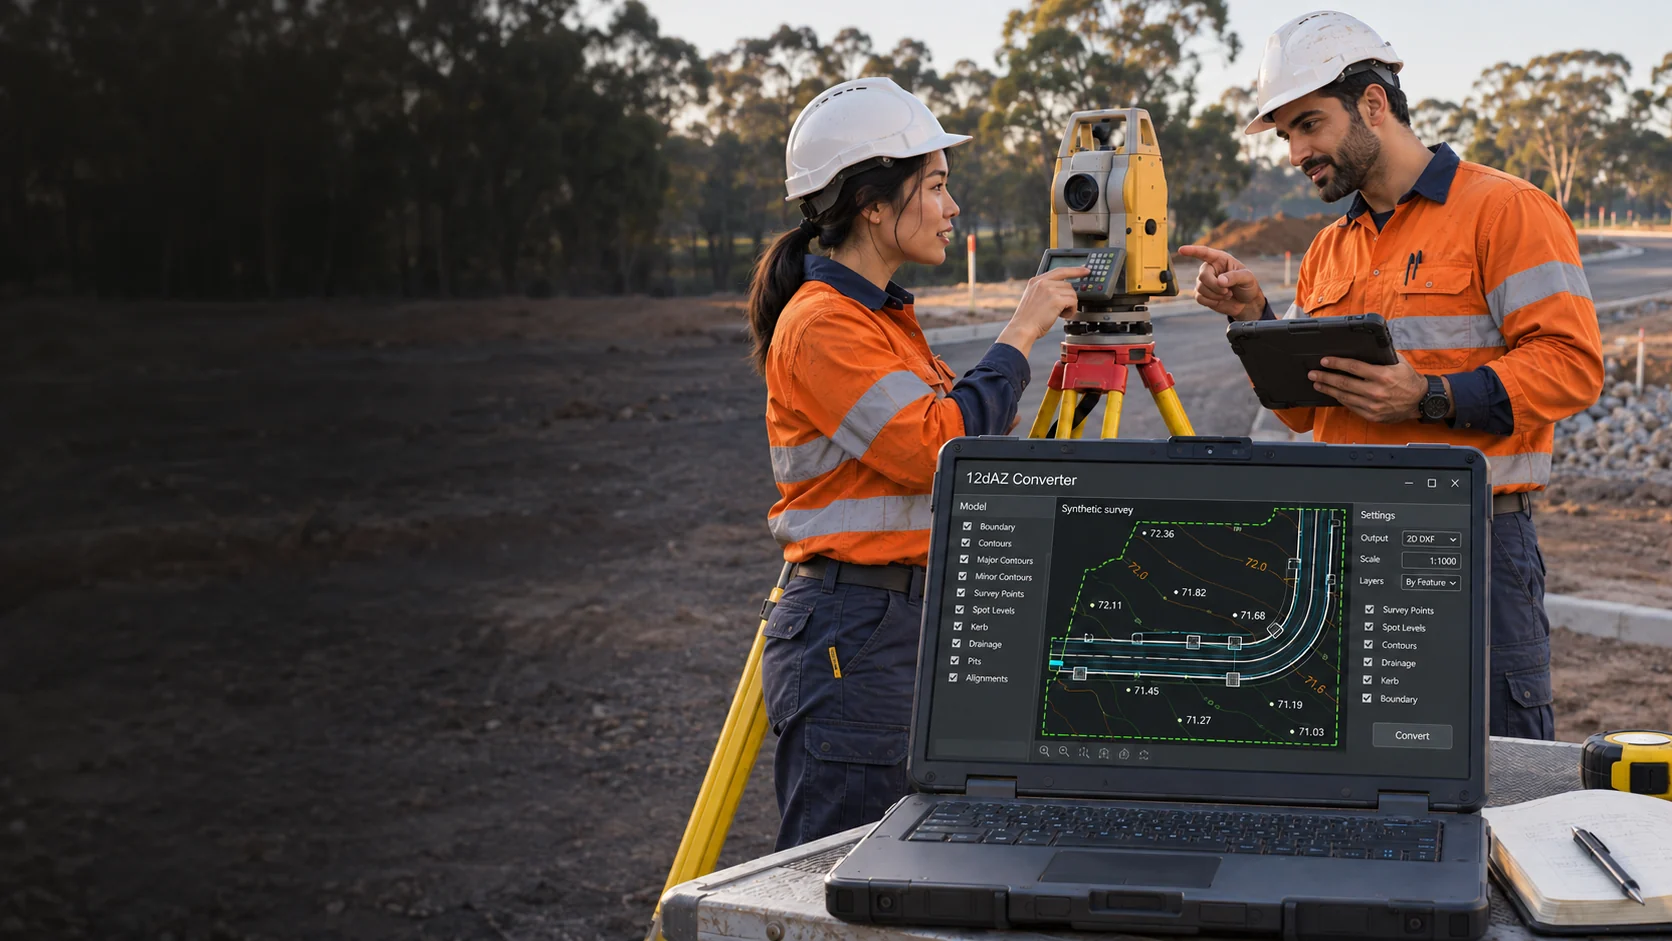
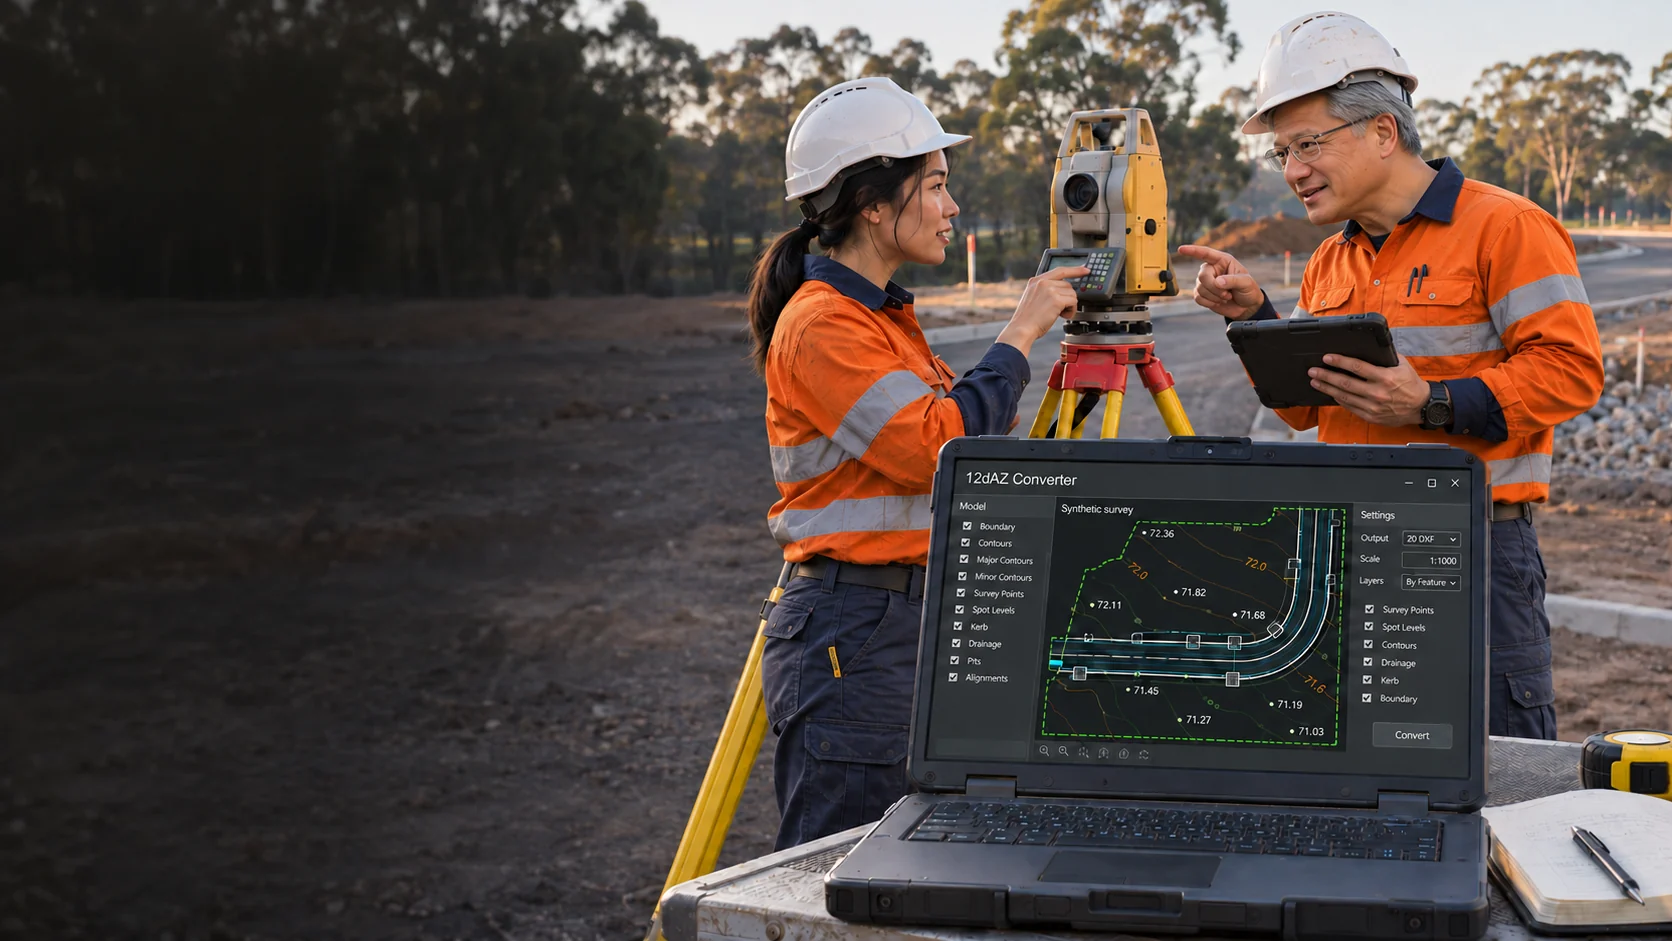
Update male surveyor in homepage hero image

diff --git a/website/index.html b/website/index.html
@@ -85,7 +85,7 @@
               sizes="(max-width: 1000px) calc(100vw - 48px), 1160px"
               width="1672"
               height="941"
-              alt="Illustrative scene of two surveyors, an Asian woman and a Middle Eastern man, working with a total station beside a laptop displaying a synthetic road survey plan"
+              alt="Illustrative scene of two surveyors, an Asian woman and an older man wearing glasses, working with a total station beside a laptop displaying a synthetic road survey plan"
               fetchpriority="high"
             />
             <figcaption>AI-generated scene · synthetic survey · illustrative interface</figcaption>
